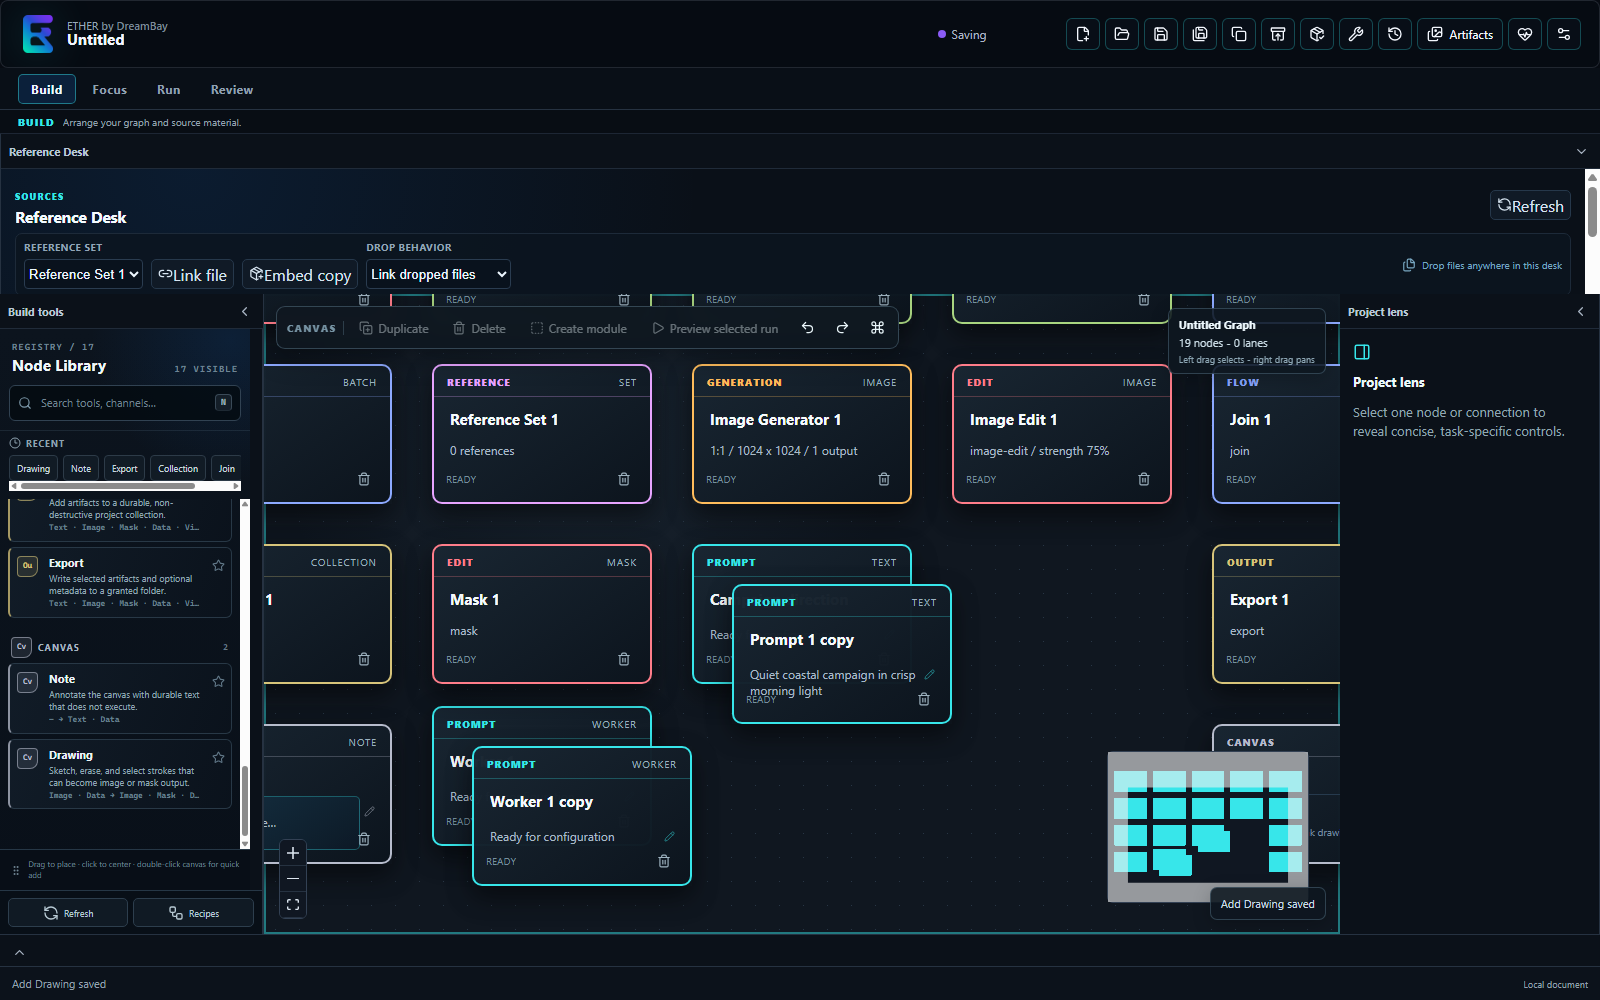
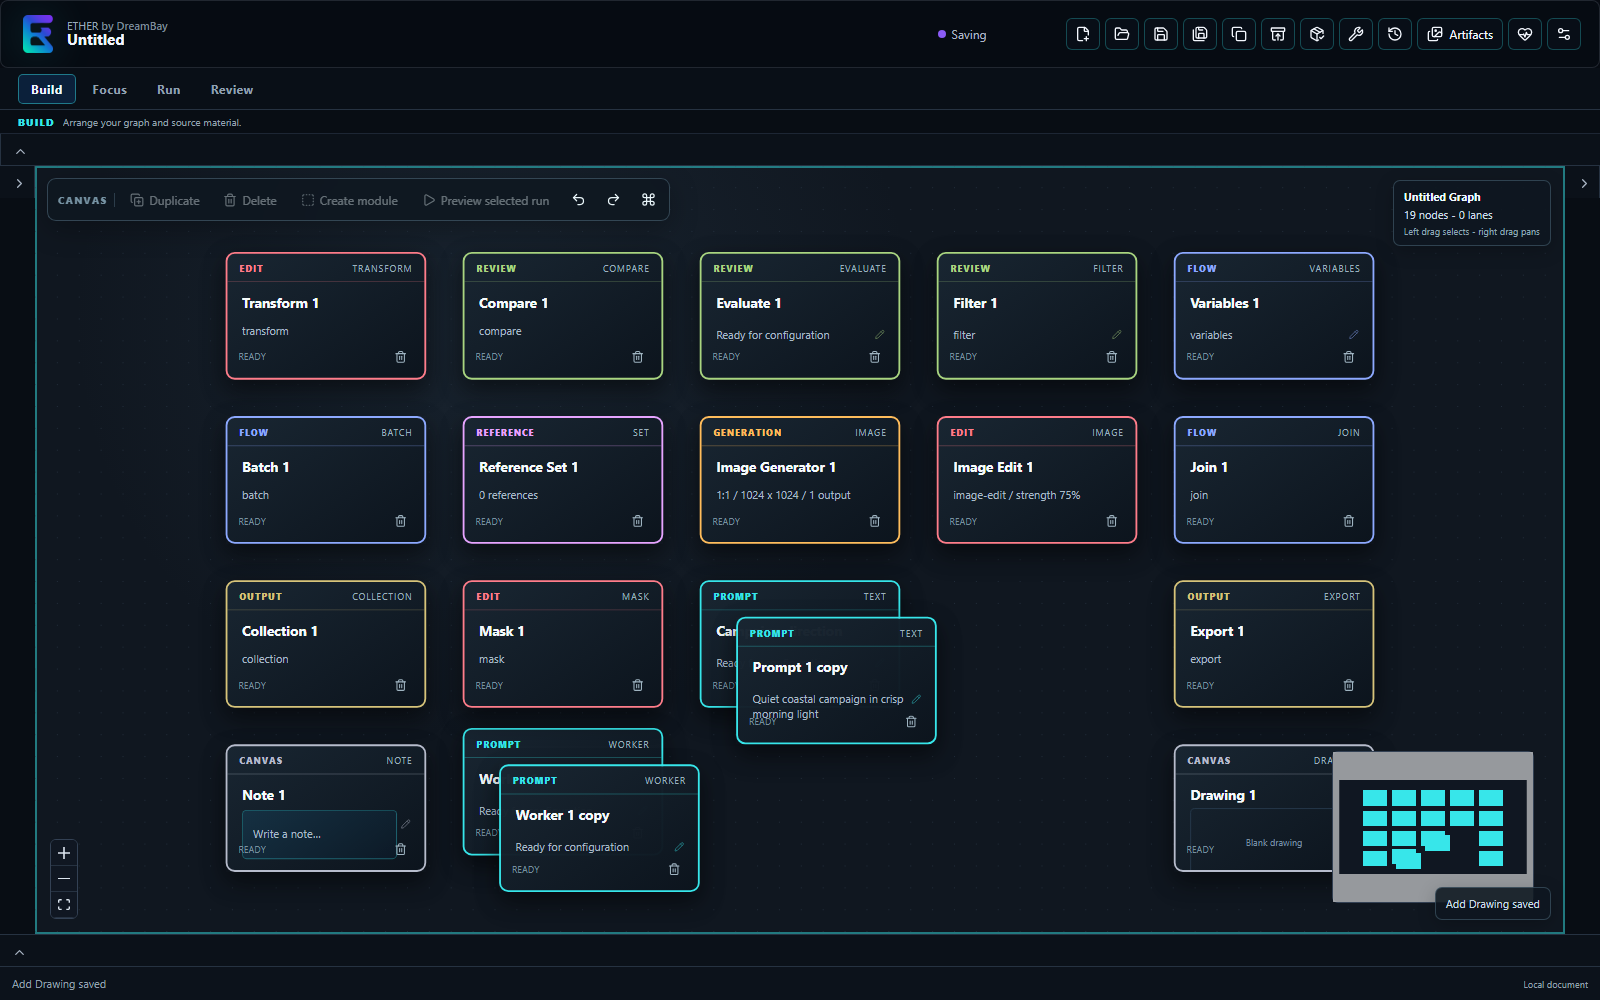
docs(recovery): refresh blank GUI checkpoint

diff --git a/docs/evidence/ether-4.0-recovery/phase-1/blank-gui-checkpoint/packaged/action-log.md b/docs/evidence/ether-4.0-recovery/phase-1/blank-gui-checkpoint/packaged/action-log.md
@@ -2,68 +2,71 @@
 
 - Mode: packaged
 - Outcome: passed
-- Git commit: 51ec96680e7453519fbb0643bfe5e6c2c2312375
+- Git commit: 38235da49e31afc5e04f1868fde4b2614d68fd40
 - Profile: fresh-isolated; APPDATA, LOCALAPPDATA, and userData isolated
 - Viewport: 1600×1000; scale 1
-- Started: 2026-08-03T11:31:57.365Z
-- Finished: 2026-08-03T11:32:07.163Z
+- Started: 2026-08-03T12:00:18.096Z
+- Finished: 2026-08-03T12:00:27.733Z
 
 ## Build identity
 
-- release/windows/win-unpacked/Ether.exe: 94f64e57236b36013c1ba5abbcfa1c129941590a0ca98c169c6f565e36e6476a
-- release/windows/win-unpacked/resources/app.asar: a2d1ef9bdc9943e94fda49702a4c65bdfc7ca4cc3af2cfa737aafc1a7f05850e
+- release/windows/win-unpacked/Ether.exe: bc79aa9e6826cee71d0e2aa3e4f330766bbaf0f9e5f3561700fcd45cc333a6c2
+- release/windows/win-unpacked/resources/app.asar: 5be5a2ee773946bd67cfd42e1f73e0b2b7a7d42a100cfe813fb4331e7fd8f24b
 
 ## Actions
 
 | # | Input | Action | Expected | Actual | ms | Screenshot |
 | --- | --- | --- | --- | --- | ---: | --- |
 | 1 | observation | Registry-backed blank library | All 17 canonical node types are discoverable before graph mutation. | Found 17 registry rows in canonical order. | 0 |  |
-| 2 | screenshot | Capture the blank registry-backed library | A fresh blank document visibly exposes the searchable Node Library. | Captured after the documented preceding action. | 128 | screenshots/01-blank-library.png |
-| 3 | left-click | Add prompt.text from Node Library | The registry factory creates prompt.text with canonical defaults. | Left click at (108, 498). | 37 |  |
-| 4 | left-click | Add prompt.worker from Node Library | The registry factory creates prompt.worker with canonical defaults. | Left click at (108, 633). | 34 |  |
-| 5 | left-drag | Move Worker with ordinary left drag | The Worker moves once and preserves its graph identity. | Left drag (542, 434) to (542, 824). | 273 |  |
-| 6 | left-marquee | Marquee-select Prompt | A left-drag marquee selects the intersected Prompt. | Left drag (674, 526) to (930, 702). | 154 |  |
-| 7 | shift-marquee | Add Worker with Shift marquee | Shift marquee preserves Prompt and adds Worker. | Shift+left drag (414, 688) to (670, 864). | 103 |  |
-| 8 | screenshot | Capture movement and additive marquee | The separated nodes show one reliable movement and two-node additive selection state. | Captured after the documented preceding action. | 175 | screenshots/02-marquee-and-movement.png |
-| 9 | keyboard-command | Duplicate selected nodes | Ctrl+D duplicates the two selected nodes with a visible offset. | Pressed Control+D. | 38 |  |
+| 2 | screenshot | Capture the blank registry-backed library | A fresh blank document visibly exposes the searchable Node Library. | Captured after the documented preceding action. | 126 | screenshots/01-blank-library.png |
+| 3 | left-click | Add prompt.text from Node Library | The registry factory creates prompt.text with canonical defaults. | Left click at (108, 498). | 40 |  |
+| 4 | left-click | Add prompt.worker from Node Library | The registry factory creates prompt.worker with canonical defaults. | Left click at (108, 633). | 28 |  |
+| 5 | left-drag | Move Worker with ordinary left drag | The Worker moves once and preserves its graph identity. | Left drag (542, 434) to (542, 824). | 426 |  |
+| 6 | left-marquee | Marquee-select Prompt | A left-drag marquee selects the intersected Prompt. | Left drag (674, 526) to (930, 702). | 118 |  |
+| 7 | shift-marquee | Add Worker with Shift marquee | Shift marquee preserves Prompt and adds Worker. | Shift+left drag (414, 688) to (670, 864). | 99 |  |
+| 8 | screenshot | Capture movement and additive marquee | The separated nodes show one reliable movement and two-node additive selection state. | Captured after the documented preceding action. | 137 | screenshots/02-marquee-and-movement.png |
+| 9 | keyboard-command | Duplicate selected nodes | Ctrl+D duplicates the two selected nodes with a visible offset. | Pressed Control+D. | 43 |  |
 | 10 | keyboard-command | Copy graph selection | Ctrl+C records the selected graph subgraph. | Pressed Control+C. | 6 |  |
-| 11 | keyboard-command | Paste graph selection | Ctrl+V pastes the selected subgraph with fresh graph identities. | Pressed Control+V. | 36 |  |
-| 12 | keyboard-command | Delete pasted graph selection | Delete removes the current graph selection. | Pressed Delete. | 30 |  |
-| 13 | keyboard-command | Undo graph delete | Ctrl+Z restores the deleted graph selection. | Pressed Control+Z. | 26 |  |
-| 14 | keyboard-command | Redo graph delete | Ctrl+Y reapplies the graph deletion. | Pressed Control+Y. | 38 |  |
-| 15 | keyboard-command | Select every current node | Ctrl+A selects every node when the canvas owns focus. | Pressed Control+A. | 12 |  |
+| 11 | keyboard-command | Paste graph selection | Ctrl+V pastes the selected subgraph with fresh graph identities. | Pressed Control+V. | 32 |  |
+| 12 | keyboard-command | Delete pasted graph selection | Delete removes the current graph selection. | Pressed Delete. | 28 |  |
+| 13 | keyboard-command | Undo graph delete | Ctrl+Z restores the deleted graph selection. | Pressed Control+Z. | 36 |  |
+| 14 | keyboard-command | Redo graph delete | Ctrl+Y reapplies the graph deletion. | Pressed Control+Y. | 24 |  |
+| 15 | keyboard-command | Select every current node | Ctrl+A selects every node when the canvas owns focus. | Pressed Control+A. | 7 |  |
 | 16 | observation | Primary graph shortcuts | Duplicate, clipboard, delete, undo, redo, and select-all change the durable graph. | Node counts: 2 -> 4 -> 6 -> 4 -> 6 -> 4; four selected. | 0 |  |
-| 17 | keyboard-command | Rename the primary selected node | F2 opens one controlled title editor. | Pressed F2. | 16 |  |
+| 17 | keyboard-command | Rename the primary selected node | F2 opens one controlled title editor. | Pressed F2. | 15 |  |
 | 18 | keyboard-command | Commit the direct title edit | Enter commits the renamed title as one graph transaction. | Pressed Enter. | 27 |  |
-| 19 | left-click | Restore canvas-owned node focus | The renamed Prompt is the primary selected graph object. | Left click at (802, 599). | 130 |  |
-| 20 | keyboard-command | Open primary content editing | Enter edits the selected Prompt primary content rather than moving the node. | Pressed Enter. | 26 |  |
-| 21 | screenshot | Capture controlled direct editing | The selected Prompt visibly owns the only bounded on-canvas editor. | Captured after the documented preceding action. | 196 | screenshots/03-direct-editing.png |
-| 22 | keyboard-command | Commit primary content edit | Ctrl+Enter commits text while the editor owns focus. | Pressed Control+Enter. | 29 |  |
-| 23 | left-click | Restore Prompt command focus | The directly edited Prompt remains the primary graph selection. | Left click at (802, 599). | 16 |  |
-| 24 | keyboard-command | Select the preview graph scope | The preview scope includes the blank-authored Workers without starting provider work. | Pressed Control+A. | 10 |  |
-| 25 | keyboard-command | Preview the selected run | Ctrl+Enter reaches provider capability validation without starting provider work. | Pressed Control+Enter. | 10 |  |
+| 19 | left-click | Restore canvas-owned node focus | The renamed Prompt is the primary selected graph object. | Left click at (802, 599). | 17 |  |
+| 20 | keyboard-command | Open primary content editing | Enter edits the selected Prompt primary content rather than moving the node. | Pressed Enter. | 14 |  |
+| 21 | screenshot | Capture controlled direct editing | The selected Prompt visibly owns the only bounded on-canvas editor. | Captured after the documented preceding action. | 186 | screenshots/03-direct-editing.png |
+| 22 | keyboard-command | Commit primary content edit | Ctrl+Enter commits text while the editor owns focus. | Pressed Control+Enter. | 34 |  |
+| 23 | left-click | Restore Prompt command focus | The directly edited Prompt remains the primary graph selection. | Left click at (802, 599). | 11 |  |
+| 24 | keyboard-command | Select the preview graph scope | The preview scope includes the blank-authored Workers without starting provider work. | Pressed Control+A. | 15 |  |
+| 25 | keyboard-command | Preview the selected run | Ctrl+Enter reaches provider capability validation without starting provider work. | Pressed Control+Enter. | 9 |  |
 | 26 | observation | Provider-free run preview | The shortcut is wired while an unconfigured blank profile remains provider-safe. | Preview stopped at the visible capability guard; no provider work started. | 0 |  |
-| 27 | left-click | Add reference.set from Node Library | The registry factory creates reference.set with canonical defaults. | Left click at (108, 749). | 37 |  |
-| 28 | left-click | Add generation.image from Node Library | The registry factory creates generation.image with canonical defaults. | Left click at (108, 814). | 38 |  |
-| 29 | left-click | Add edit.image from Node Library | The registry factory creates edit.image with canonical defaults. | Left click at (108, 674). | 52 |  |
-| 30 | left-click | Add edit.mask from Node Library | The registry factory creates edit.mask with canonical defaults. | Left click at (108, 750). | 37 |  |
-| 31 | left-click | Add edit.transform from Node Library | The registry factory creates edit.transform with canonical defaults. | Left click at (108, 814). | 39 |  |
-| 32 | left-click | Add review.compare from Node Library | The registry factory creates review.compare with canonical defaults. | Left click at (108, 674). | 38 |  |
-| 33 | left-click | Add review.evaluate from Node Library | The registry factory creates review.evaluate with canonical defaults. | Left click at (108, 750). | 40 |  |
-| 34 | left-click | Add review.filter from Node Library | The registry factory creates review.filter with canonical defaults. | Left click at (108, 814). | 44 |  |
-| 35 | left-click | Add flow.variables from Node Library | The registry factory creates flow.variables with canonical defaults. | Left click at (108, 674). | 56 |  |
-| 36 | left-click | Add flow.batch from Node Library | The registry factory creates flow.batch with canonical defaults. | Left click at (108, 750). | 40 |  |
-| 37 | left-click | Add flow.join from Node Library | The registry factory creates flow.join with canonical defaults. | Left click at (108, 814). | 124 |  |
-| 38 | left-click | Add output.collection from Node Library | The registry factory creates output.collection with canonical defaults. | Left click at (108, 674). | 45 |  |
-| 39 | left-click | Add output.export from Node Library | The registry factory creates output.export with canonical defaults. | Left click at (108, 750). | 44 |  |
-| 40 | left-click | Add canvas.note from Node Library | The registry factory creates canvas.note with canonical defaults. | Left click at (108, 814). | 38 |  |
-| 41 | left-click | Add canvas.drawing from Node Library | The registry factory creates canvas.drawing with canonical defaults. | Left click at (108, 774). | 48 |  |
-| 42 | left-click | Return focus to the canvas | Canvas focus owns the final fit command. | Left click at (802, 906). | 29 |  |
-| 43 | keyboard-command | Fit the authored graph | Home fits all authored node types into the viewport. | Pressed Home. | 5 |  |
-| 44 | observation | All canonical cards authored | Every canonical type can be created from the blank document without a graph fixture. | 17 distinct node definitions are visible on the durable canvas. | 0 |  |
-| 45 | screenshot | Capture all canonical node types | The fitted blank-authored graph visibly contains all 17 canonical node types. | Captured after the documented preceding action. | 208 | screenshots/04-all-17-node-types.png |
-| 46 | keyboard-command | Open the canvas command palette | Ctrl+K exposes the same graph command registry used by shortcuts and toolbar. | Pressed Control+K. | 37 |  |
-| 47 | screenshot | Capture the unified command surface | The palette visibly lists graph commands, shortcuts, availability, and disabled reasons. | Captured after the documented preceding action. | 284 | screenshots/05-command-palette.png |
+| 27 | left-click | Add reference.set from Node Library | The registry factory creates reference.set with canonical defaults. | Left click at (108, 749). | 34 |  |
+| 28 | left-click | Add generation.image from Node Library | The registry factory creates generation.image with canonical defaults. | Left click at (108, 814). | 27 |  |
+| 29 | left-click | Add edit.image from Node Library | The registry factory creates edit.image with canonical defaults. | Left click at (108, 674). | 31 |  |
+| 30 | left-click | Add edit.mask from Node Library | The registry factory creates edit.mask with canonical defaults. | Left click at (108, 750). | 34 |  |
+| 31 | left-click | Add edit.transform from Node Library | The registry factory creates edit.transform with canonical defaults. | Left click at (108, 814). | 30 |  |
+| 32 | left-click | Add review.compare from Node Library | The registry factory creates review.compare with canonical defaults. | Left click at (108, 674). | 33 |  |
+| 33 | left-click | Add review.evaluate from Node Library | The registry factory creates review.evaluate with canonical defaults. | Left click at (108, 750). | 30 |  |
+| 34 | left-click | Add review.filter from Node Library | The registry factory creates review.filter with canonical defaults. | Left click at (108, 814). | 29 |  |
+| 35 | left-click | Add flow.variables from Node Library | The registry factory creates flow.variables with canonical defaults. | Left click at (108, 674). | 36 |  |
+| 36 | left-click | Add flow.batch from Node Library | The registry factory creates flow.batch with canonical defaults. | Left click at (108, 750). | 31 |  |
+| 37 | left-click | Add flow.join from Node Library | The registry factory creates flow.join with canonical defaults. | Left click at (108, 814). | 43 |  |
+| 38 | left-click | Add output.collection from Node Library | The registry factory creates output.collection with canonical defaults. | Left click at (108, 674). | 57 |  |
+| 39 | left-click | Add output.export from Node Library | The registry factory creates output.export with canonical defaults. | Left click at (108, 750). | 36 |  |
+| 40 | left-click | Add canvas.note from Node Library | The registry factory creates canvas.note with canonical defaults. | Left click at (108, 814). | 36 |  |
+| 41 | left-click | Add canvas.drawing from Node Library | The registry factory creates canvas.drawing with canonical defaults. | Left click at (108, 774). | 37 |  |
+| 42 | left-click | Hide Reference Desk | The ordinary panel control clears more room for the authored graph. | Left click at (1581, 151). | 29 |  |
+| 43 | left-click | Hide Build tools | The ordinary panel control clears more room for the authored graph. | Left click at (244, 183). | 24 |  |
+| 44 | left-click | Hide Project lens | The ordinary panel control clears more room for the authored graph. | Left click at (1580, 183). | 16 |  |
+| 45 | left-click | Return focus to the canvas | Canvas focus owns the final fit command. | Left click at (800, 906). | 21 |  |
+| 46 | keyboard-command | Fit the authored graph | Home fits all authored node types into the viewport. | Pressed Home. | 2 |  |
+| 47 | observation | All canonical cards authored | Every canonical type can be created from the blank document without a graph fixture. | 17 distinct node definitions are visible on the durable canvas. | 0 |  |
+| 48 | screenshot | Capture all canonical node types | The fitted blank-authored graph visibly contains all 17 canonical node types. | Captured after the documented preceding action. | 184 | screenshots/04-all-17-node-types.png |
+| 49 | keyboard-command | Open the canvas command palette | Ctrl+K exposes the same graph command registry used by shortcuts and toolbar. | Pressed Control+K. | 20 |  |
+| 50 | screenshot | Capture the unified command surface | The palette visibly lists graph commands, shortcuts, availability, and disabled reasons. | Captured after the documented preceding action. | 195 | screenshots/05-command-palette.png |
 
 ## Captured errors
 
